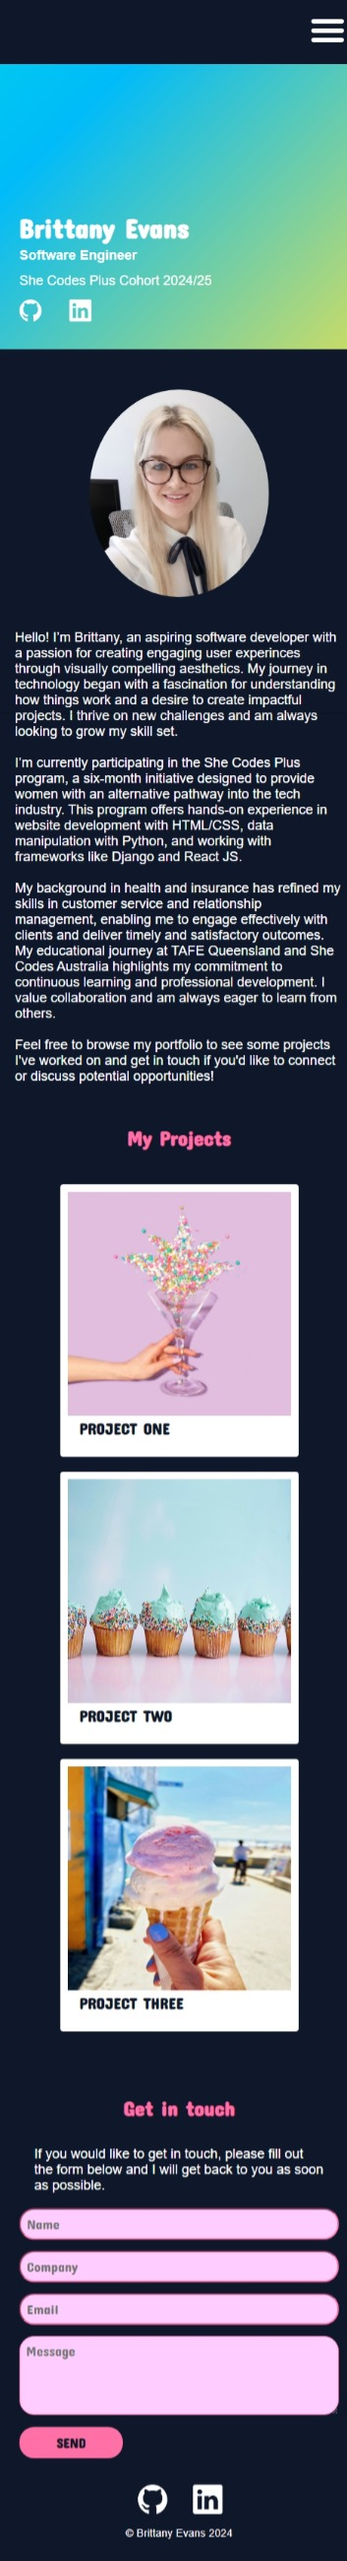
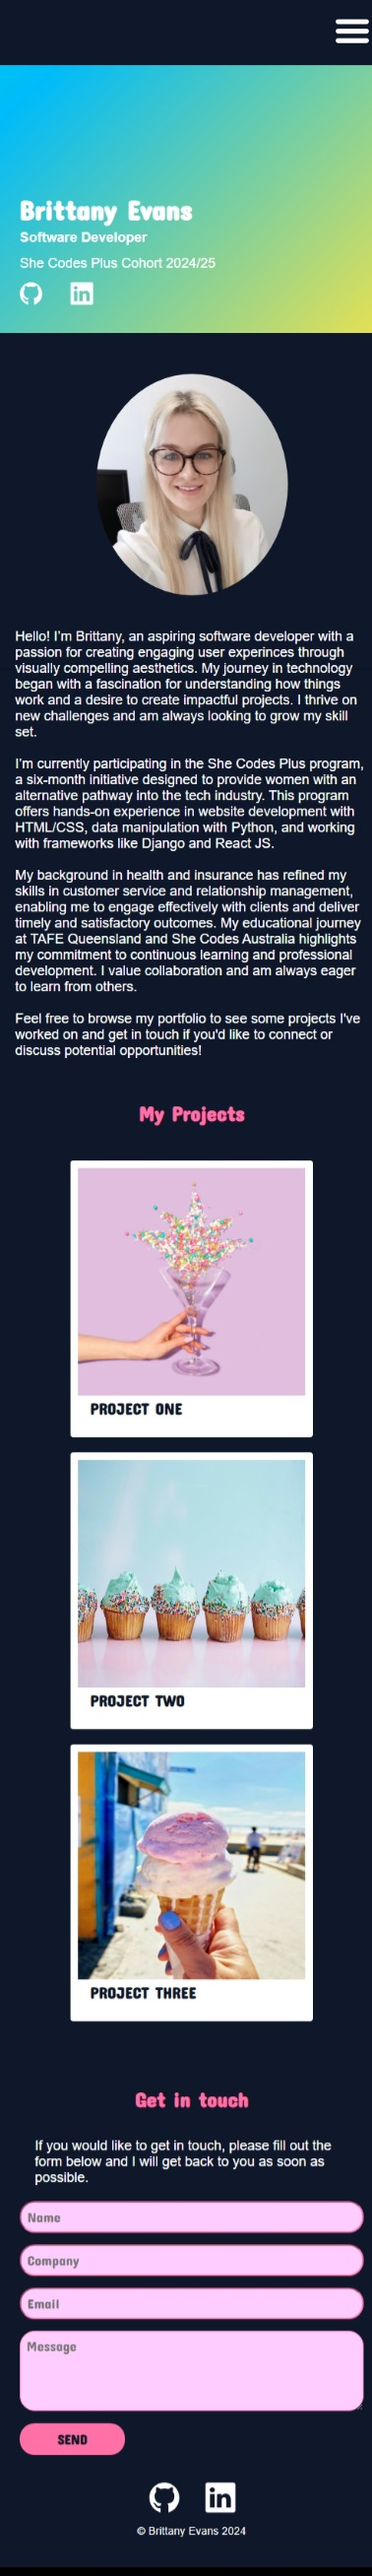
update README

diff --git a/index.html b/index.html
@@ -50,7 +50,7 @@
     <section class="hero">
       <div class="intro">
         <h1>Brittany Evans</h1>
-        <h2>Software Engineer</h2>
+        <h2>Software Developer</h2>
         <p class="shecodes-text">She Codes Plus Cohort 2024/25</p>
         <div class="icons-links">
           <a href="https://github.com/Britt-E" title="GitHub" target="_blank">
